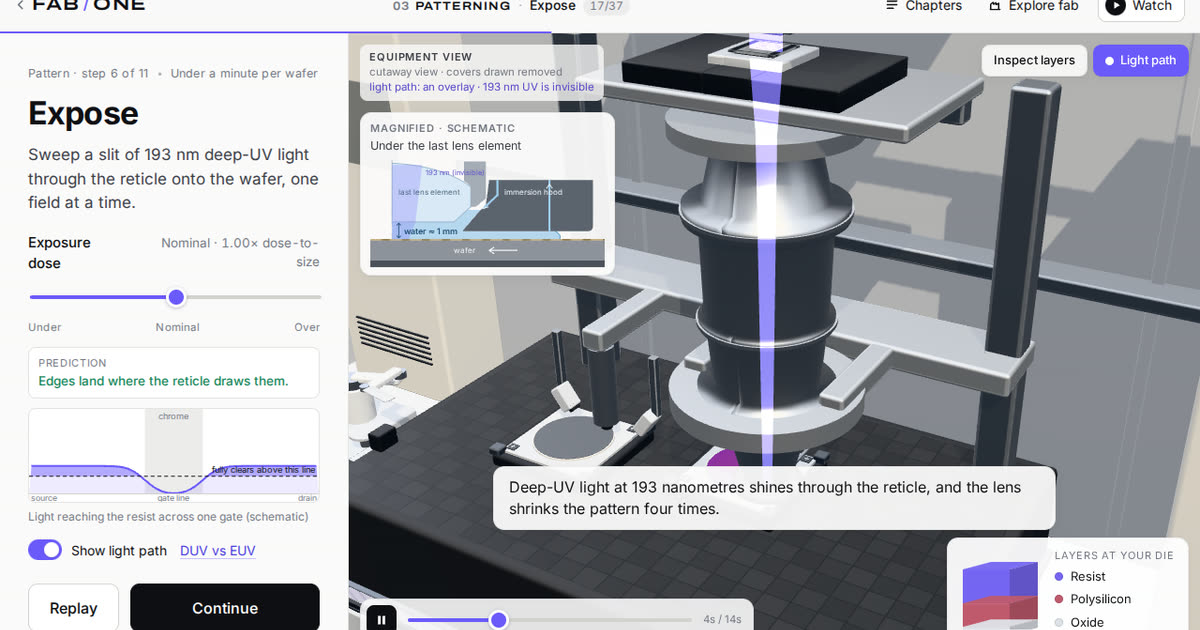
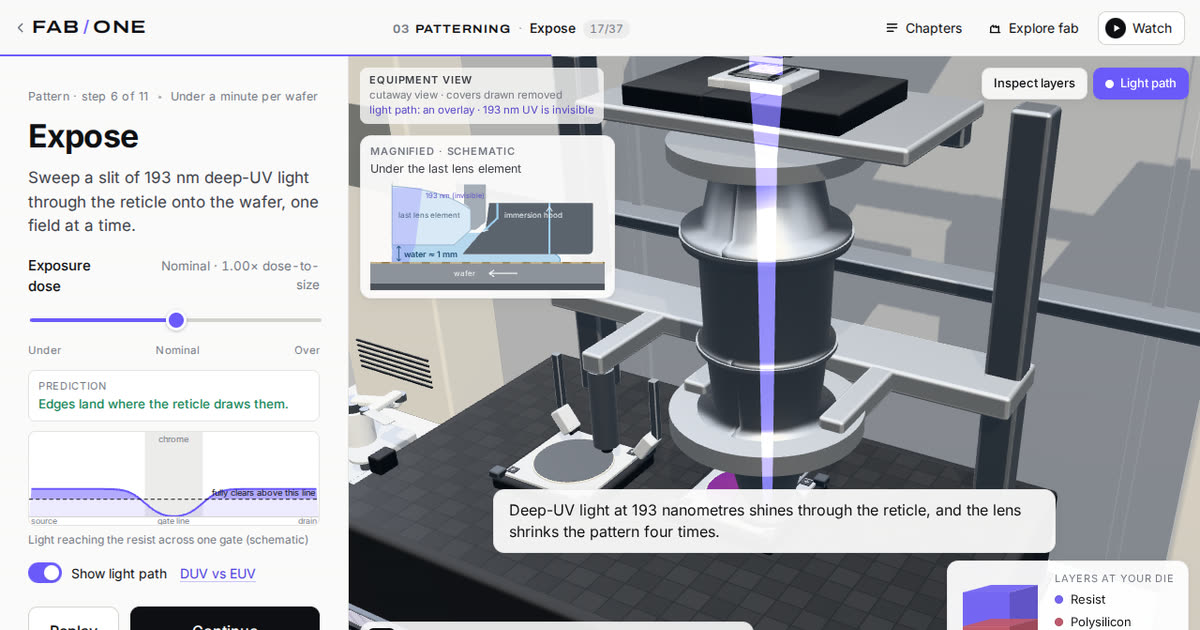
Link-preview image keeps the simulation's header; README notes Playwright's browser
og.jpg is cut from the top of the preview's first frame rather than its middle, so the
header (Back to FAB / ONE, the chapter and the lesson) stays in the picture.

Claude-Session: https://claude.ai/code/session_01HJaUFyQPy62XDC9R1W8J6m

diff --git a/README.md b/README.md
@@ -50,8 +50,9 @@ npm run serve          # dist/ at http://127.0.0.1:8888, routed as Netlify route
 | `npm run capture-preview -- <slug>` | records `site/media/<slug>/preview.mp4`, `preview.webm` and `poster.jpg` from the built site |
 | `npm run package` | `release/fab-one-site.zip`: the contents of `dist/`, with `index.html` at the top level |
 
-Each simulation can still be developed on its own in its folder (`npm run dev` there): see
-its README.
+The browser tests use Playwright's Chromium with software WebGL, so they run without a GPU;
+if it is not installed yet, run `npx playwright install chromium` once. Each simulation can
+still be developed on its own in its folder (`npm run dev` there): see its README.
 
 ## How the routes work
 
